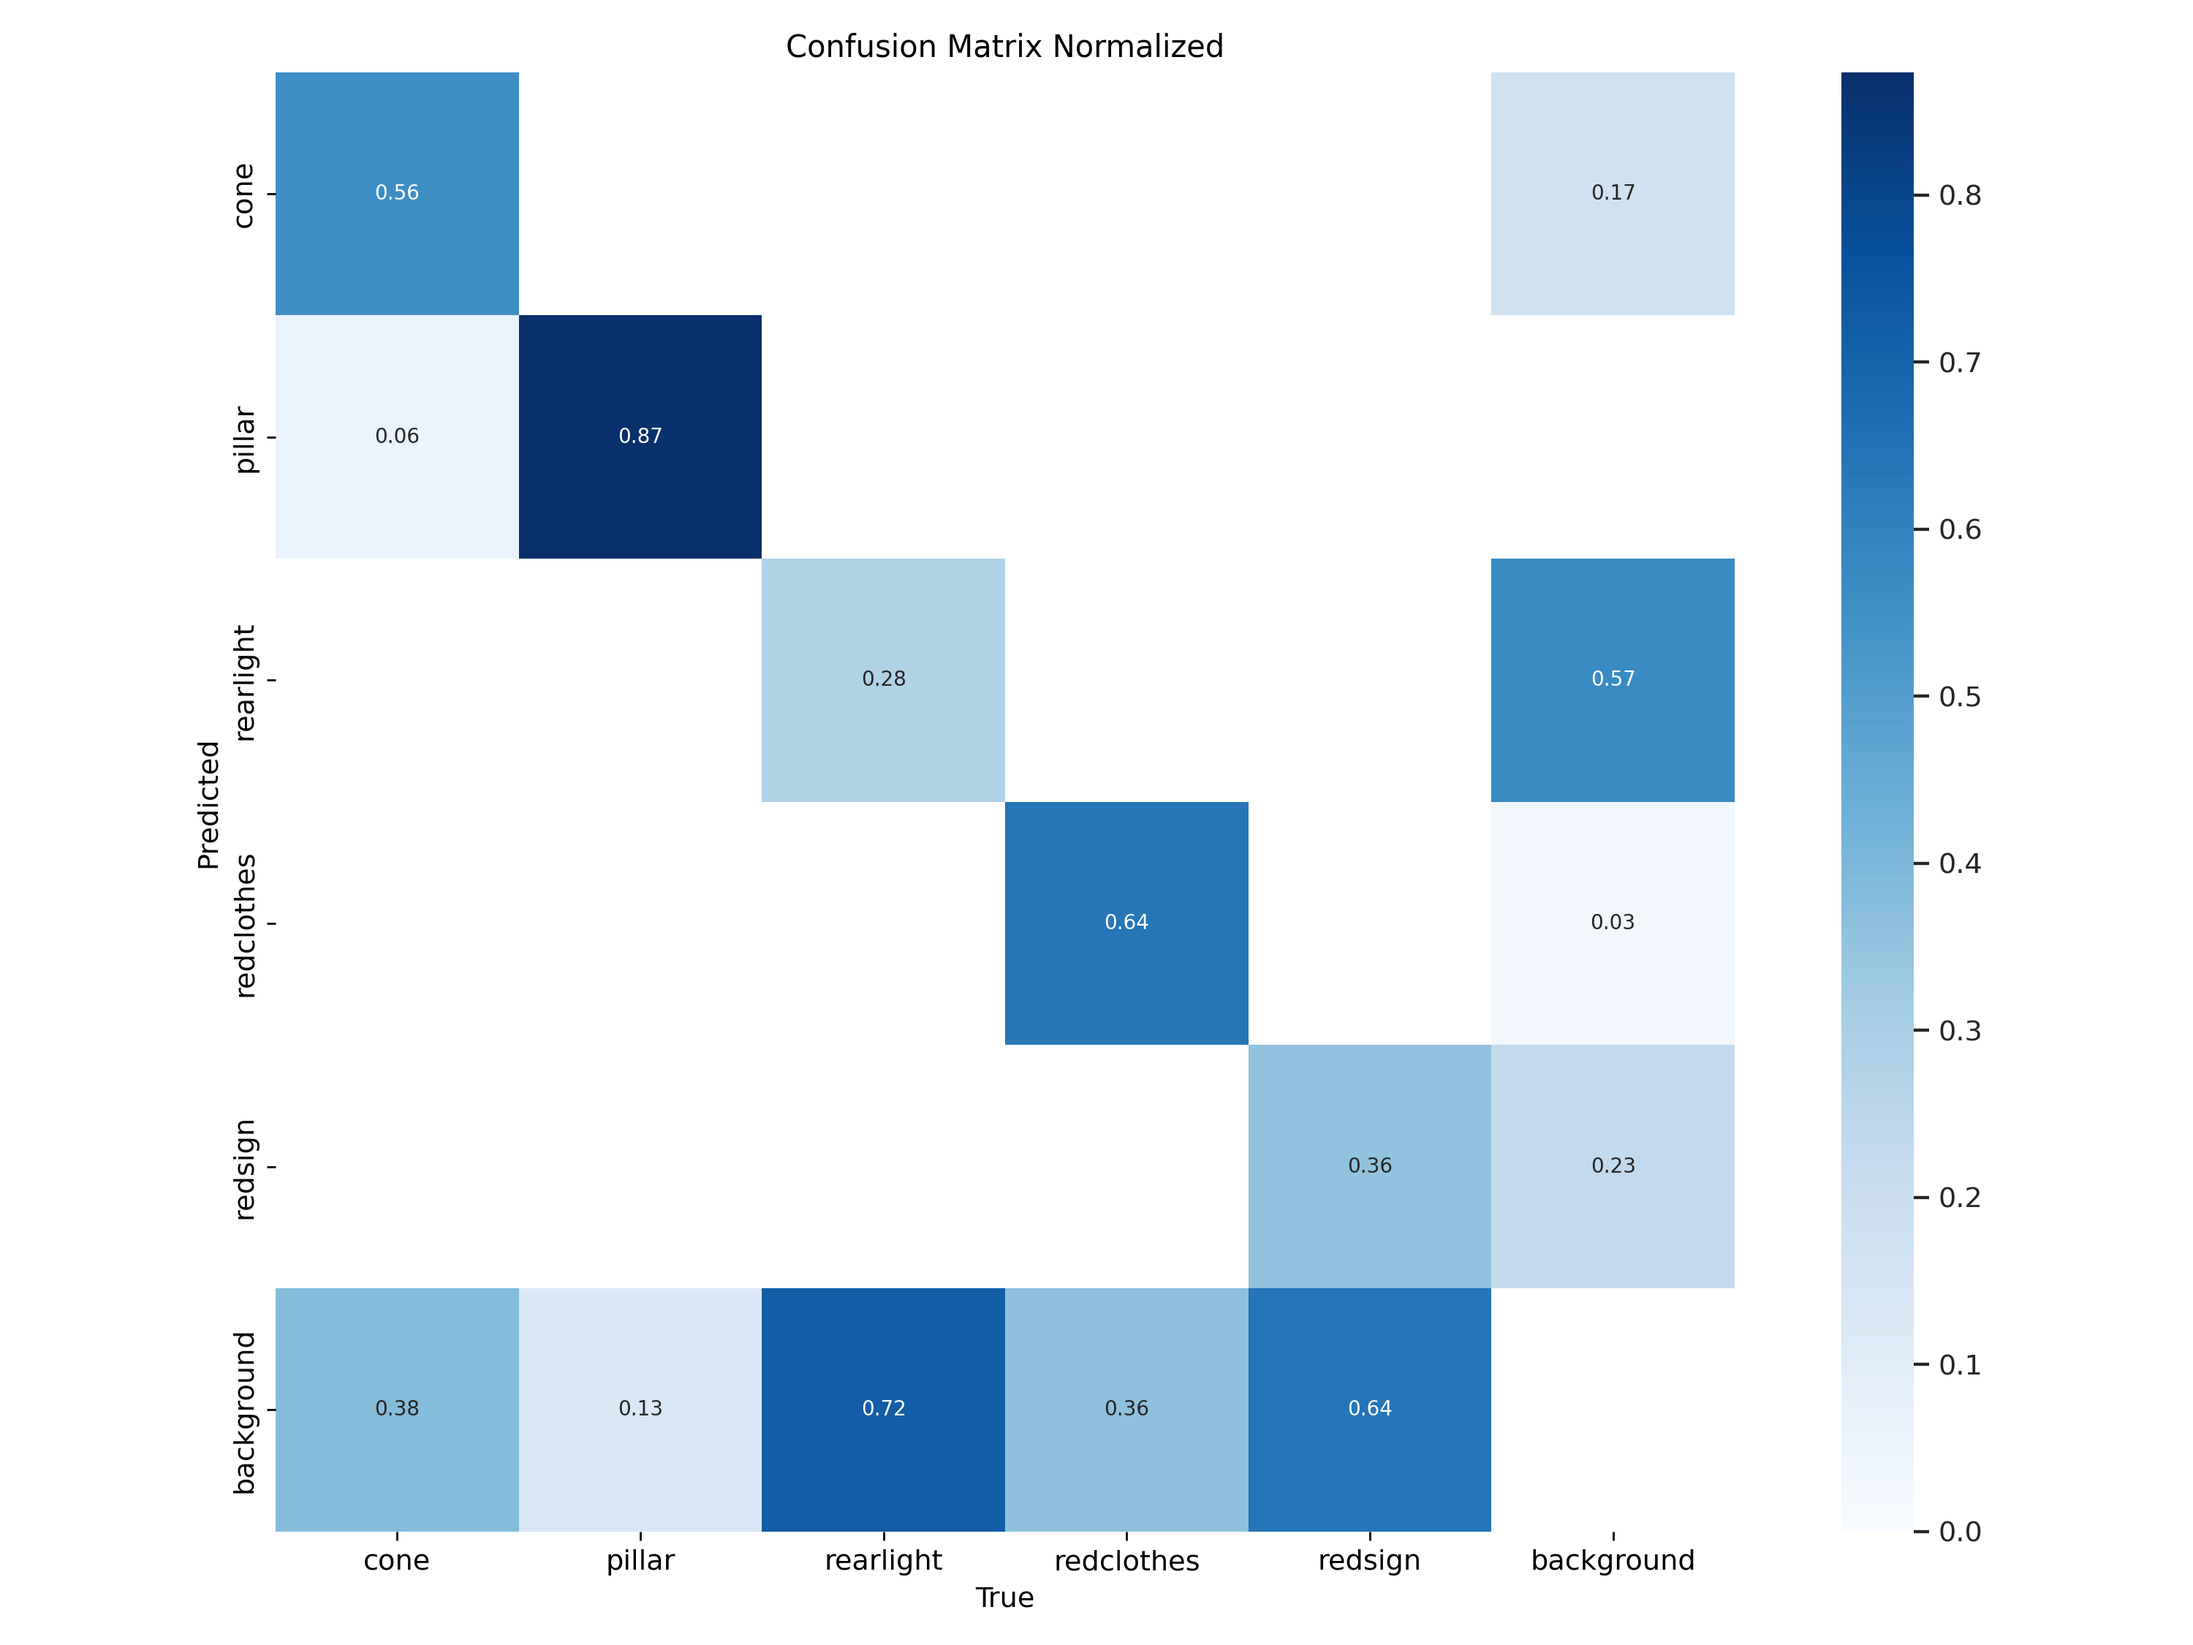
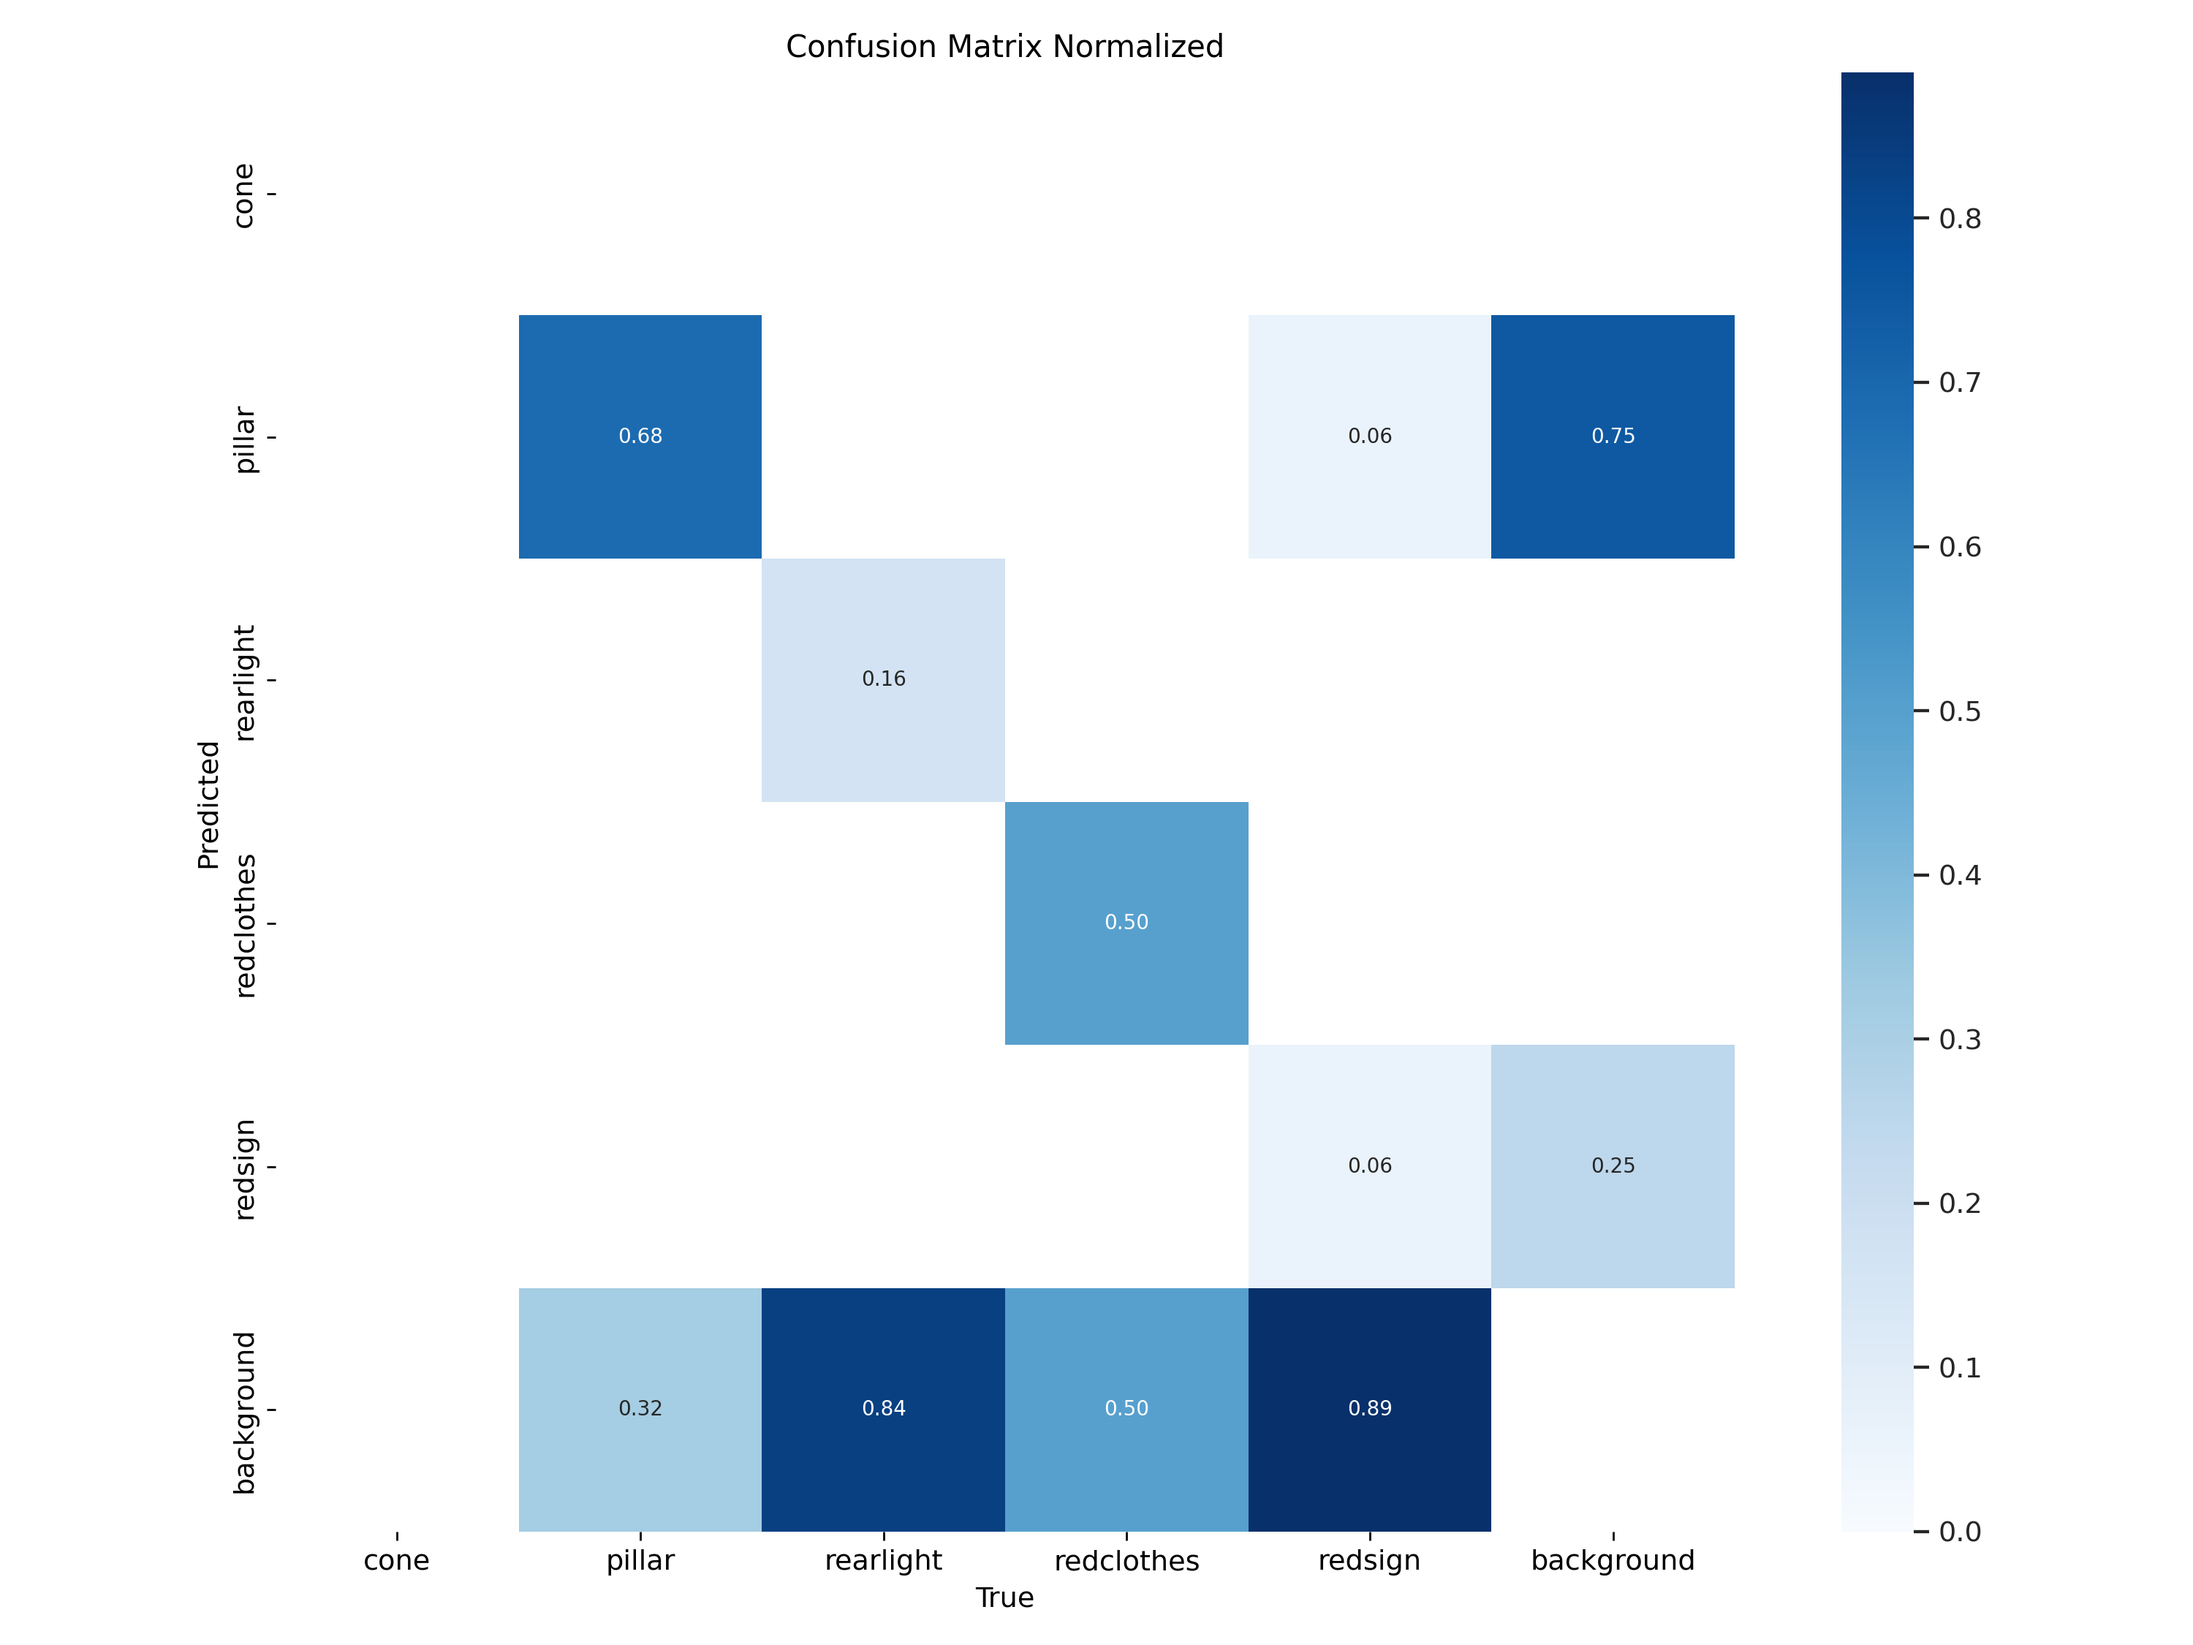
Split validation & training pictures, more details on confusion matrix

diff --git a/README.md b/README.md
@@ -28,7 +28,7 @@ Once we get a trained model from YOLO, we can run object detections on a larger 
 
 Now we have a clearer idea of the whole process, let's get started !
 
-## Find pictures with Panoramax & OpenStreetMap
+## 📷🗺 Find pictures with Panoramax & OpenStreetMap
 
 ### Locating interesting features in OpenStreetMap
 
@@ -46,7 +46,7 @@ Then click on _Build and execute_, data will appear over the map.
 
 OpenStreetMap data can then be exported using __Export__ button. Save your file as _GeoJSON_ format. Note that if you run into any trouble during that step, an example file is also provided as [`osm_hydrants_lyon.geojson`](./osm_hydrants_lyon.geojson).
 
-### 📷 Downloading nearby picture in Panoramax
+### Downloading nearby picture in Panoramax
 
 The [Panoramax API](https://panoramax.ign.fr/api/docs/swagger#/Pictures/get_api_search) offers an endpoint to retrieve pictures looking at a specific object. For example, you can run a _HTTP GET_ query like:
 
@@ -154,10 +154,25 @@ Once you're done with picture labelling, you can export your annotations using t
 
 ![Export settings in Label Studio](./Images/labelstudio_export.png)
 
+Before starting the training, we have to split the dataset between two subsets of pictures :
 
-## 🏃♀ Model training with YOLO
+- __Training pictures__, which will be used to teach the model what to detect
+- __Validation pictures__, which are used after teaching to check model accuracy
+
+To have an optimal training, we may have 80% of training pictures, and 20% of validation pictures. To split our dataset, you can do the following :
+
+- Extract a first time the exported ZIP, and name it as `hydrants_data_v1`. It will be our __training__ dataset.
+  - Go in the extracted directory
+  - Delete 20% of the images in `pictures` folder (make sure they're sorted by file name)
+  - Delete same quantity of text files in the `labels` folder (same names as the deleted pictures)
+- Extract a second time the exported ZIP, and name it as `hydrants_data_validation`. It will be our __validation__ dataset.
+  - Go in the extracted directory
+  - Delete 80% of the images in `pictures` folder (make sure they're sorted by file name)
+  - Delete same quantity of text files in the `labels` folder (same names as the deleted pictures)
 
 Our initial dataset is ready. It's time for YOLO to help us train our model.
+
+## 🏃♀ Model training with YOLO
 
 ### Setup
 
@@ -183,14 +198,15 @@ In this folder, we need to add a little configuration file for YOLO. It should b
 
 ```yaml
 train: /path/to/hydrants_data_v1/images
-val: /path/to/hydrants_data_v1/images
+val: /path/to/hydrants_data_validation/images
 nc: 1
 names: ['pillar']
 ```
 
 You may need to change the content of the file:
 
-- `train` and `val`: to match the file path to access the `images` folder inside your `hydrants_data_v1` directory
+- `train`: to match the file path to access the `images` folder inside your `hydrants_data_v1` directory
+- `val`: to match the file path to access the `images` folder inside your `hydrants_data_validation` directory
 - `names`: if you have used a different label name than `pillar`
 
 Now we're ready to launch some training ! Note that your computer GPU will heat up a bit 🌡 Launch the following command:
@@ -311,15 +327,17 @@ Once pictures are imported, you go back to labelling pictures (yes I know, _bori
 
 Make sure each class has at least a hundred annotations through the whole set of pictures. If a class is less represented than the others, it will not be as efficient to avoid false positives.
 
-Once you're done, we re-do the export like in first model version. Export in YOLO format, save and extract the generated ZIP file in a `hydrants_data_v2` folder.
+Once you're done, we re-do the export like in first model version. Export in YOLO format and save the generated ZIP file.
 
 ### Training the model
 
-Let's train again our model. Like first version, we need a `data.yaml` file associated to this new exported dataset. Create it in `hydrants_data_v2` folder, but this time with a content a bit different:
+Let's train again our model. Like in previous version, we need to split our pictures into a training and a validation dataset. Repeat the 80% / 20% split operation, in order to have a `hydrants_data_v2` folder for training pictures, and `hydrants_data_validation` folder for validation pictures.
+
+And as in first model preparation, we need a `data.yaml` file associated to this new exported dataset. Create it in `hydrants_data_v2` folder, but this time with a content a bit different:
 
 ```yaml
 train: /path/to/hydrants_data_v2/images
-val: /path/to/hydrants_data_v2/images
+val: /path/to/hydrants_data_validation/images
 nc: 5
 names: ['cone', 'pillar', 'rearlight', 'redclothes', 'redsign']
 ```
@@ -342,10 +360,17 @@ After a bit of processing, a new `hydrants_model_v2` folder will be available. T
 
 ![Normalized confusion matrix](./Images/yolo_confusionmatrix.png)
 
-Everything not on the diagonal are mistaken labels. Here, we can see that:
+It is readable that way:
 
-- Many rear lights and red signs are missed or _false negatives_ (predicted as background)
-- A lot of rear lights are detected wrongly in the background (_false positives_)
+- The left / vertical axis is the __predicted class__, what the model think the detected object is
+- The bottom / horizontal axis is the __true class__, what is really present in the picture (based on your validation dataset)
+
+The most important thing to read is what happens to pillars from the validation dataset, in particular what's not outcoming as a pillar. On this example matrix, we see:
+
+- 68% of pillars in validation dataset are correctly found as pillars by model (_true positives_)
+- 32% of them are not detected by the model (_false negatives_)
+
+This is not extremely good, but not _that bad_ as well. Another metric is _false positives_, things detected as pillars where they're not. Here, no pillar in validation dataset outcomes as a red sign, traffic cone, car rear light... Which is a good news !
 
 [A reference documentation on interpreting these results is available in YOLO docs](https://docs.ultralytics.com/guides/yolo-performance-metrics/).
 
